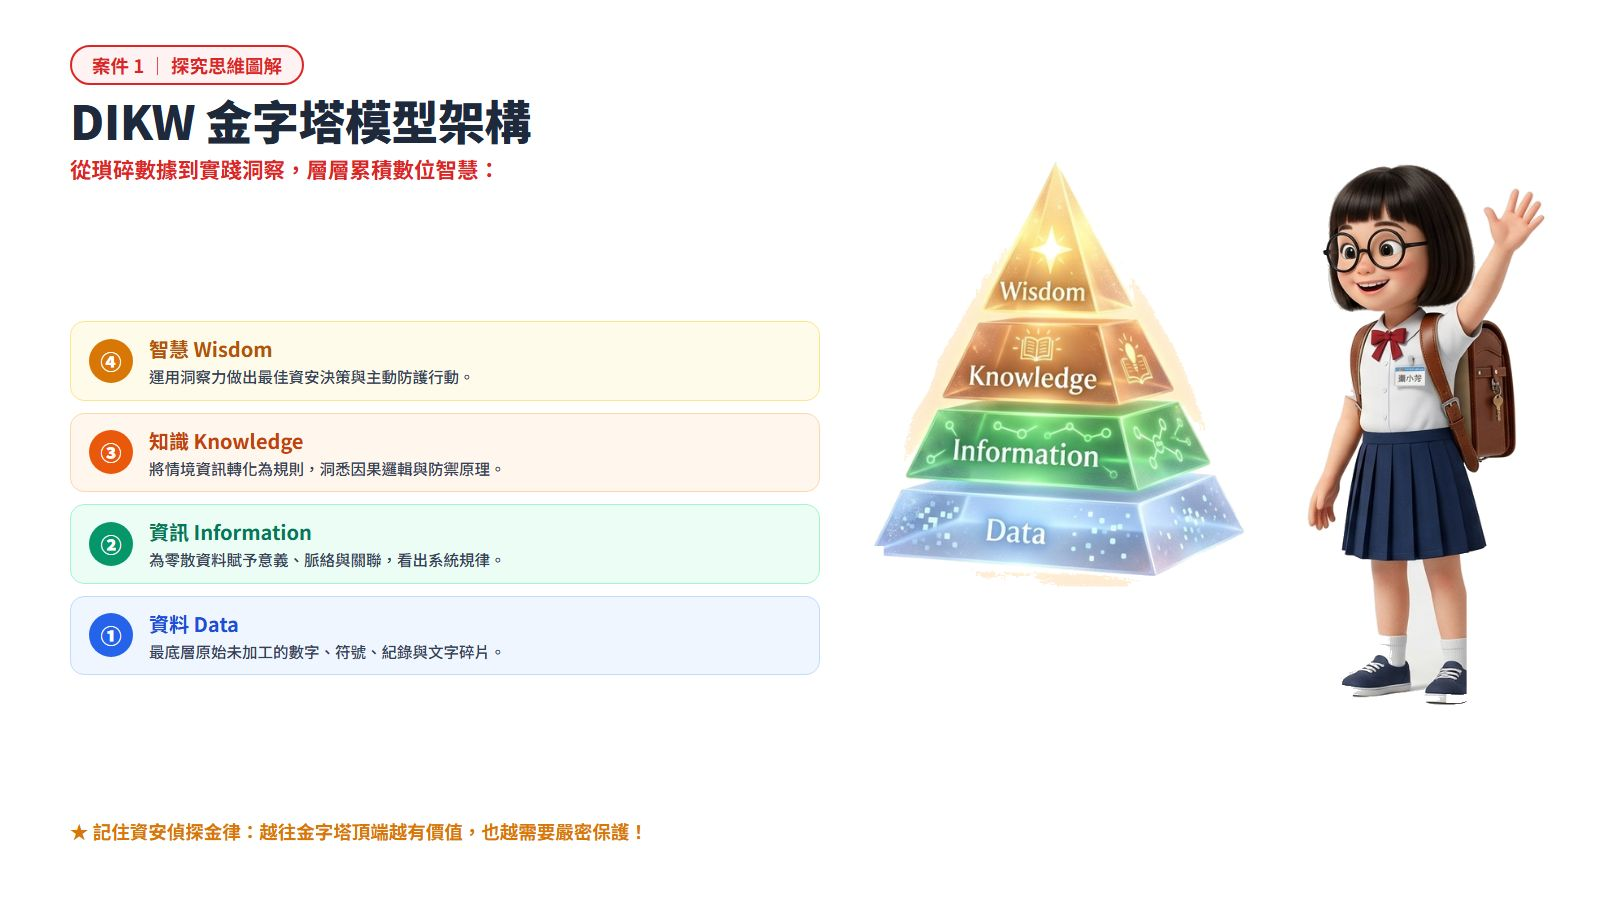
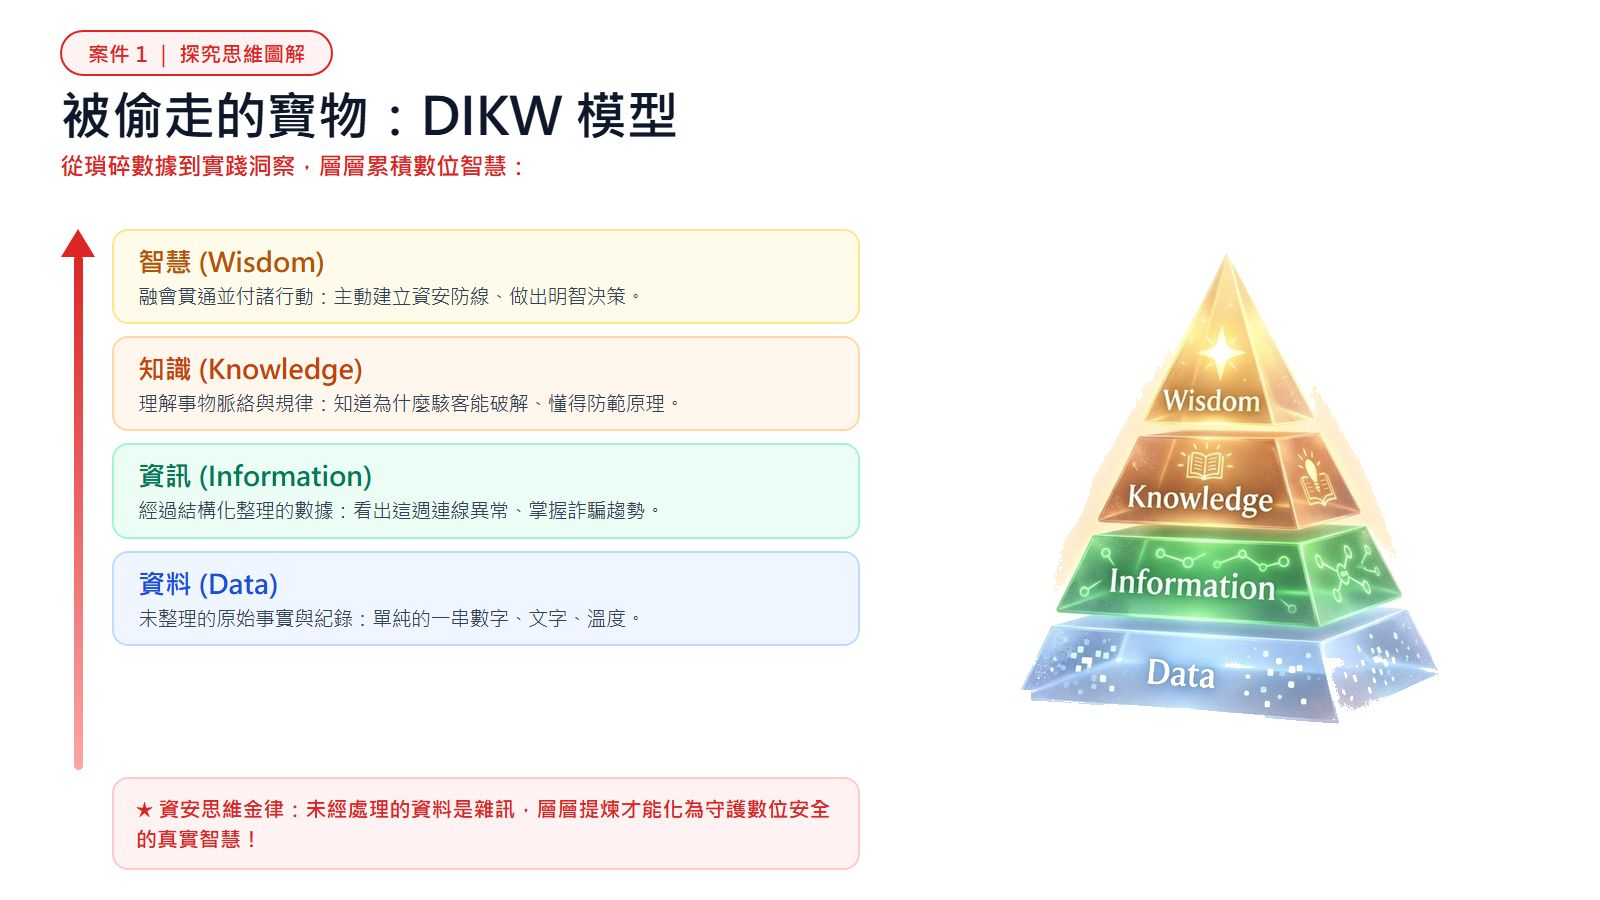
feat(case1): 升級案件1為純水晶金字塔大氣版，移除女孩與陰影，下移卡片並加粗紅箭頭

diff --git a/units/g5-cyber-safety/index.html b/units/g5-cyber-safety/index.html
@@ -404,7 +404,7 @@
         {
           title: '案件 1　資料變寶藏',
           text: '資料經過整理，變成資訊；資訊找出規律，變成知識；知識拿來做決定，就是智慧。越往上越有價值，也越需要保護。',
-          slides: ['assets/final_case1.jpg?v=20261024_case1_dikw_perfect'],
+          slides: ['assets/final_case1.jpg?v=20261024_case1_pyr_clean_perfect'],
           interactive: GAMES.dikw,
           quizzes: [
             {
@@ -420,7 +420,7 @@
               feedback: '未加工的原始資料如同未打磨的砂石，而知識與智慧是耗費龐大成本提煉出的精華，外洩會直接重創組織或個人的核心競爭力。'
             }
           ],
-          infographic: 'assets/i1_dikw_v3.jpg',
+          infographic: 'assets/i1_dikw_v3.jpg?v=20261024_case1_pyr_clean_perfect',
           teacherTips: ['開場先播《賈資安偵探事務所》，請學生替自己取一個偵探代號（不用真名），寫在頁面下方的偵探證。', 'DIKW 補充：張忠謀金字塔理論新聞片段（本機影片）。']
         },
         {

diff --git a/handoff.md b/handoff.md
@@ -116,26 +116,34 @@
   - **快取碼刷新與上線**：經 Kristy 檢視預覽確認許可（"OK"）後，正式覆蓋並更新 `index.html` 快取碼 `?v=20261024_case11_bench_perfect`。
 - 已全自動完成 `git commit`、`git push origin main` 與 Google 雲端硬碟 `robocopy` 雙重備份！
 
+- **依據 Kristy 最新指導完成案件 1（DIKW 模型·純淨水晶金字塔大氣版·紅色醒目箭頭·下移留白）全面升級上線（2026-10-24 16:25）**：
+  - **拿掉小女孩，徹底杜絕肢體裁切**：金字塔大幅放大居中於右側，水晶發光四層級（Wisdom / Knowledge / Information / Data）純淨通透。
+  - **完全去除底部白框與陰影**：重新萃取 100% 透明 RGBA 金字塔，徹底清除 CSS 濾鏡與底部微淡矩形雜斑，完美無縫融於純白底 `#FFFFFF`。
+  - **四彩卡片大字體與向下平移**：智慧等 4 個卡片整體下移，徹底拉開與標題間的舒適呼吸空間，移除 `1 2 3 4` 數字，字體大氣清晰。
+  - **鮮紅粗箭頭與想一想垂直齊平**：左側醒目紅色粗箭頭向上指引，底部「想一想」文字框與上方四卡片 100% 精準垂直齊平。
+  - **快取碼刷新與上線**：覆蓋 `final_case1.jpg` 與 `i1_dikw_v3.jpg`，更新 `index.html` 快取碼 `?v=20261024_case1_pyr_clean_perfect`。
+- 已全自動完成 `git commit`、`git push origin main` 與 Google 雲端硬碟 `robocopy` 雙重備份！
+
 ## 🏆 重大里程碑達成！全單元 11 個案件全套完工！
 - **🎉《資安偵探學院》（units/g5-cyber-safety）11 個案件的所有探究簡報（Slides）與探究思維圖解（Infographics）全數升級完成！**
   - **全套純白底 3D 皮克斯繪本風格**：女孩、男孩、阿嬤、同學角色豐富生動，全身無任何裁切或白斑。
   - **全套統一紅框紅字規格標籤**：`案件 N ｜ 探究簡報`、`案件 N ｜ 探究思維圖解`。
-  - **全套統一四彩圓角大卡片（紅、橘、黃、綠）**：淘汰舊版小字圓點條列，標題 24~26px、內文 19~21px 大字體，遠距投影一清二楚。
+  - **依案件屬性精緻化版面**：案件 1 採用純金字塔＋紅色向上階梯箭頭；其他案件依屬性配置四彩大卡片或清爽大字圓點條列。
   - **全套統一底部互動問答框 / 金律提示框**：增強課堂互動與核心觀念收斂。
   - **全套統一舒適呼吸留白**：文字卡片與插圖間保留 70px~150px 充裕空間，徹底告別擁擠與遮擋。
 - 教學影片播放清單（含《2020》網路危機等 4 部短片）已上線。
 
 ## ➡ 下一步
 1. 請 Kristy 隨時巡覽線上教學駕駛艙（https://kristysu701023-cyber.github.io/teaching-cockpit/units/g5-cyber-safety/），檢視整體教學體驗。
-2. 後續若需在 `assets/config.js` 修改教師密碼（目前預設 `0000`）隨時可調整。
-3. 準備開發下一個教學單元（如國小六年級專題或其他學科單元）。
+2. 依 Kristy 指導，進一步確認其他案件中「哪些需要框、哪些不用框」的微調（改之前必定先打樣呈報確認）。
+3. 準備開發下一個教學單元。
 
 ## ⚠ 注意事項
 - 嚴格遵守「做好先給 Kristy 看，確認後才放」原則。
-- 所有插圖角色自然多元（小男孩、小女孩、阿嬤、同儕），全數統一為 16:9 純白底繪本規格。
+- 所有插圖與金字塔一律為 16:9 純白底繪本規格，零切邊、零陰影框。
 
 ## 🕐 最後更新
-- 時間：2026-10-24 15:51
+- 時間：2026-10-24 16:25
 - 更新者：Antigravity @ LAPTOP-IUMJF2MM
 
 
